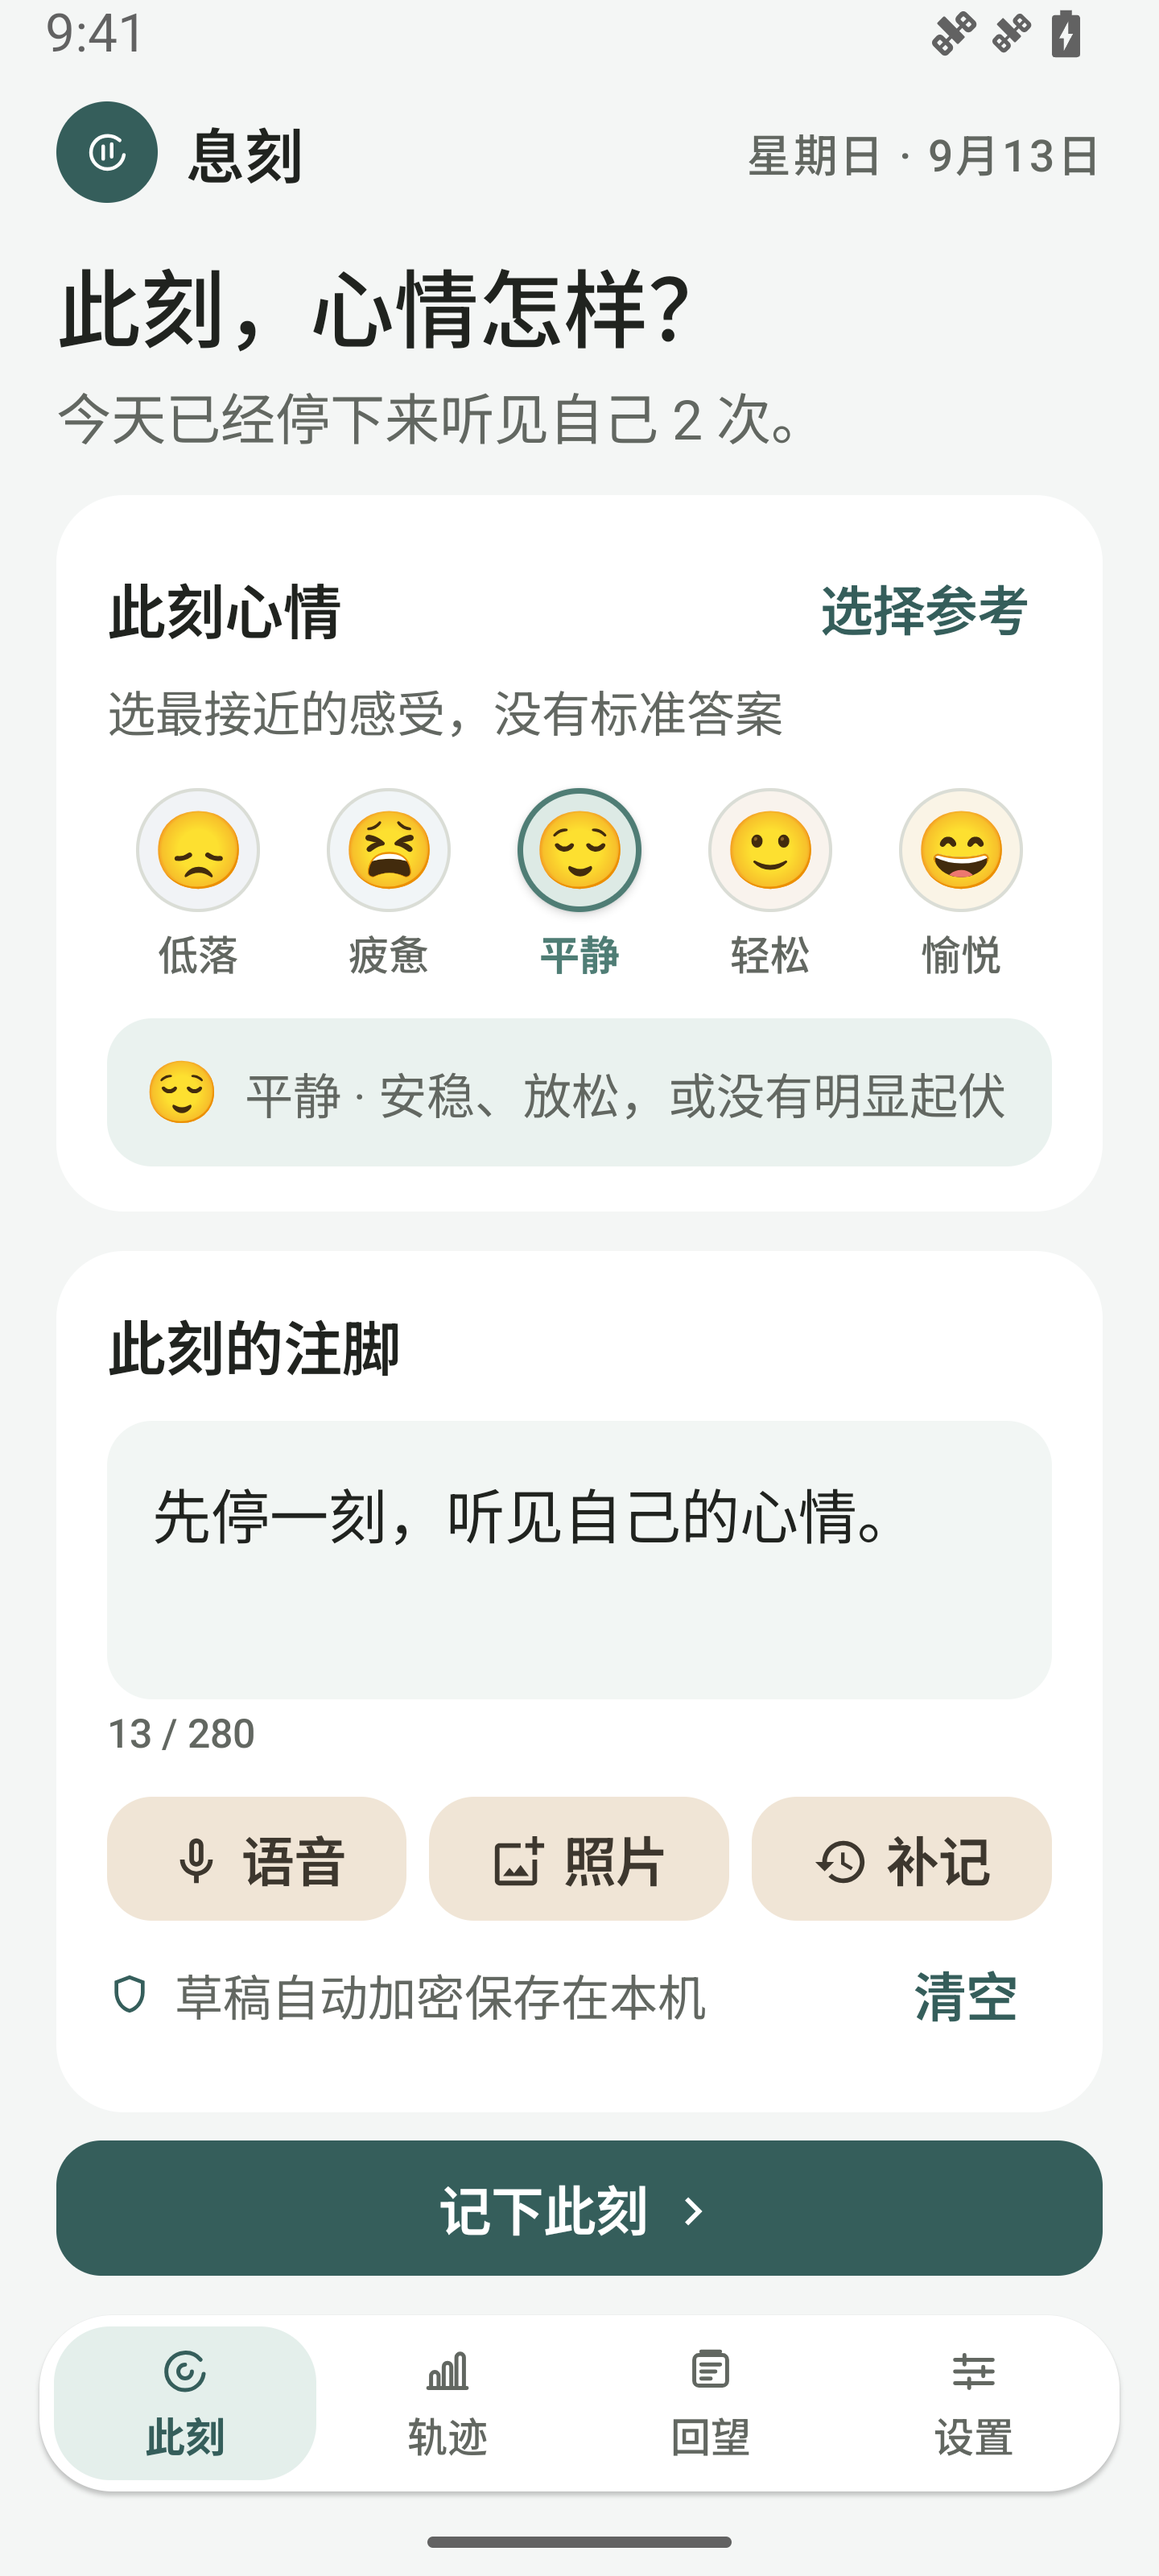
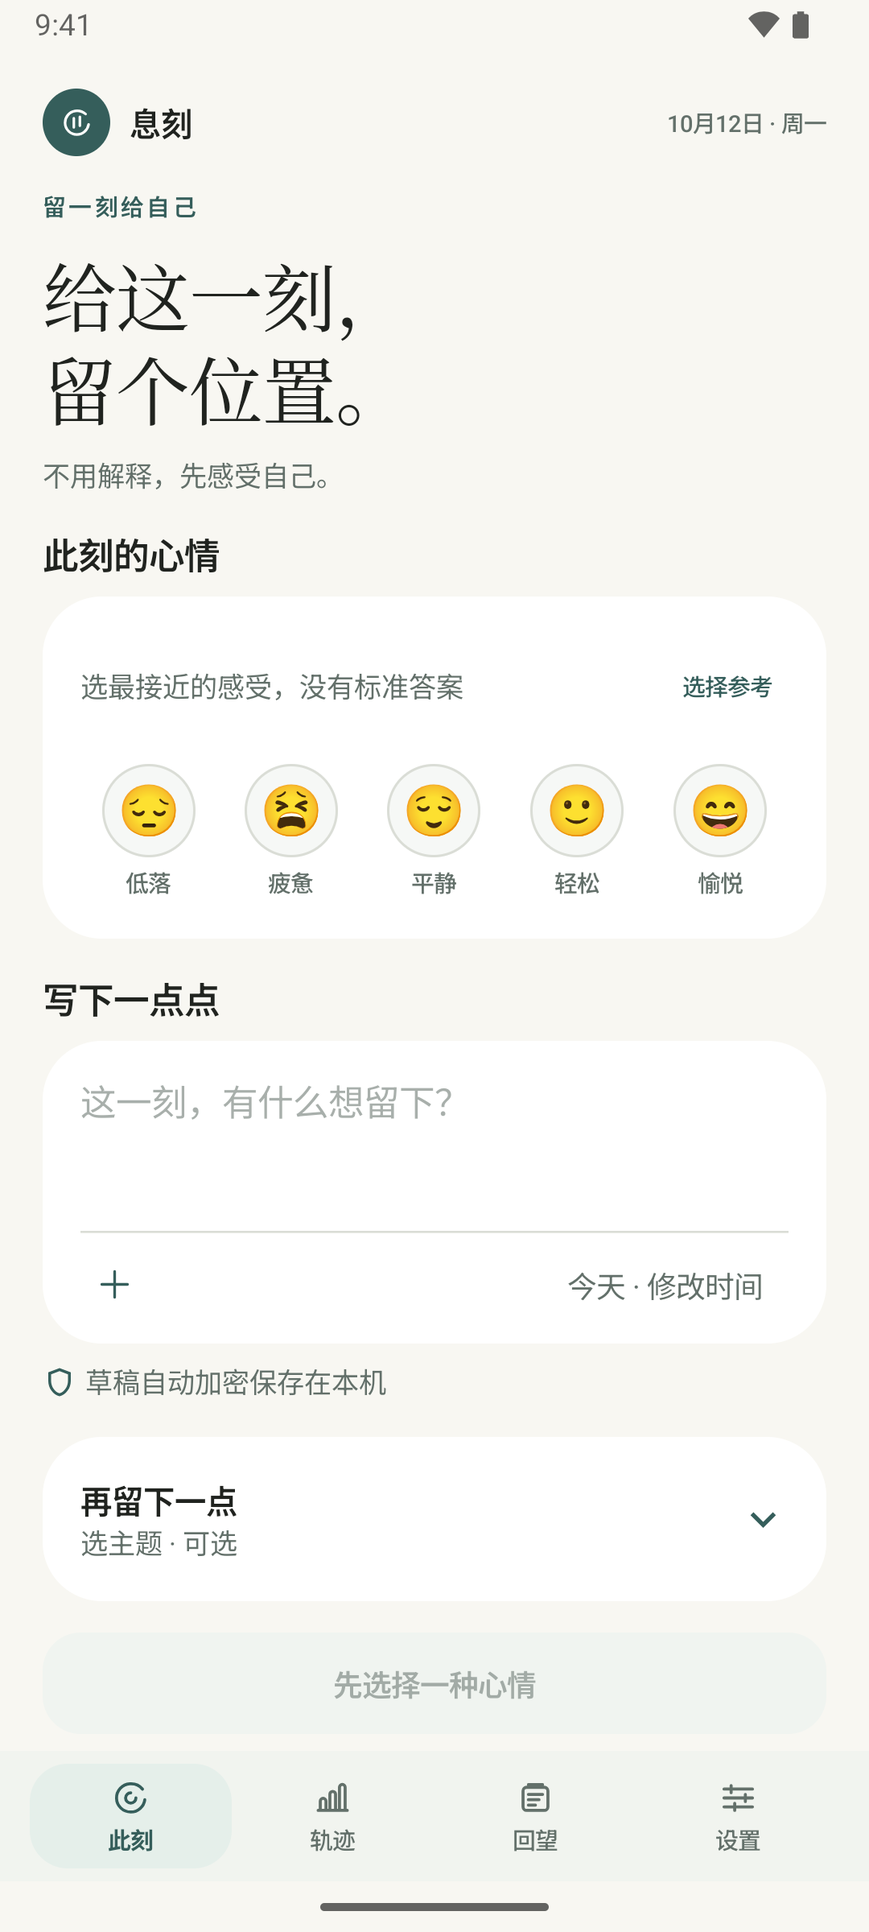
docs: 更新 README 应用预览截图
使用当前构建在 API 36 模拟器拍摄的六张初始界面截图，并更新拍摄日期、主题与分辨率说明。

验证：调试与设备测试 APK 构建通过，截图逐张检查，差异格式检查通过。相关设备测试首次通过 11 项，英文重试用例单独重跑通过。

diff --git a/README.md b/README.md
@@ -26,7 +26,7 @@
 
 ## 应用预览
 
-以下画面来自 1440 × 3200 的 Android 模拟器，记录内容为虚构演示数据。点击图片可查看原图。
+以下画面于 2026 年 10 月 12 日使用当前源码构建，在 Android 16（API 36）模拟器上拍摄，分辨率为 1080 × 2400。画面使用雾松主色、呼吸风格与中文界面，展示尚未录入日记的初始状态，不包含私人记录。点击图片可查看原图。
 
 | 记录此刻 | 回望（时间流） |
 | :---: | :---: |
